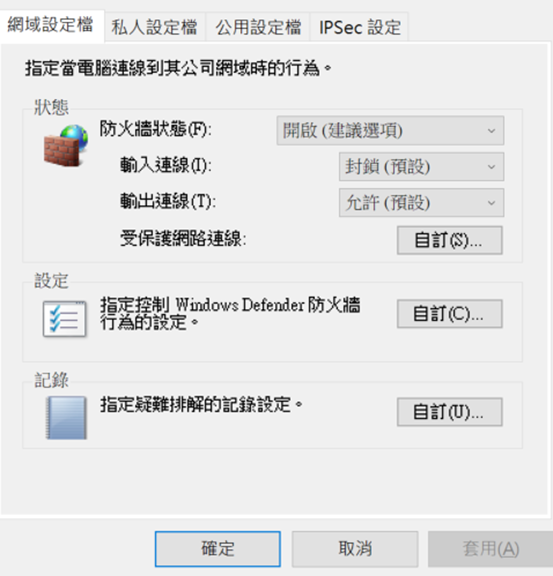
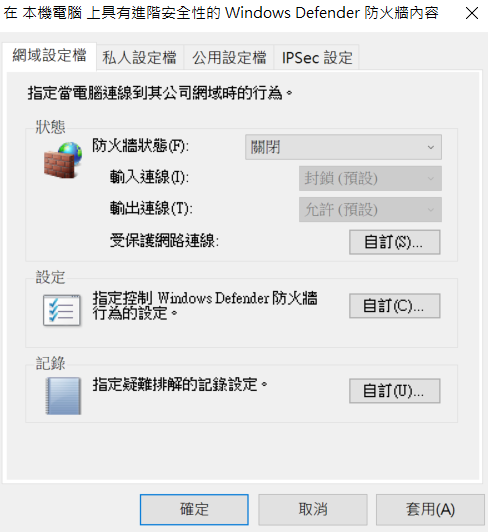
Update custom
把 custom 改好看一點點

diff --git a/custom_frc8725/style/custom.css b/custom_frc8725/style/custom.css
@@ -38,7 +38,6 @@
 	box-shadow: none;
 }
 
-
 #pageSwitcher .page #categoryButtons.buttons > button {
 	background: 
 		radial-gradient(circle at 100% -1.5vw, rgba(var(--category-color), 0.4) 3.5vw, transparent 3.5vw), 
@@ -56,6 +55,11 @@ article > .category {
 		background: linear-gradient(to right, rgb(var(--category-color)), var(--labelHovered-background));
 	}
 }
+
+#pageSwitcher .page {
+	--page-height: calc(100vh - 10vw - var(--pageSwitcher-height) - 12vw);
+}
+
 article > .cover, 
 article > .category {
 	box-shadow: none;

diff --git a/public/style/main.css b/public/style/main.css
@@ -196,7 +196,7 @@ header > * {
 #tabs {
 	--tabsAmount: 3;
 	--switchesAmount: 1;
-	--tab-height: 3vw;
+	--tab-height: 5vw;
 	--tabIcon-height: 1.5vw;
 	--tabButton-paddingY: 1vw;
 	--tabs-height: calc(100vh - 10vw - (var(--avatar-size) + var(--badge-size)/2) - 3vw - 4vw) !important;
@@ -379,7 +379,7 @@ aside[visible] {
 }
 #pageSwitcher .page li {
 	color: var(--text-color1);
-	font-size: 1.2vw;
+	font-size: 1.0vw;
 	font-weight: bold;
 	cursor: pointer;
 }

diff --git a/custom_frc8725/article/frc8725_software_edu.md b/custom_frc8725/article/frc8725_software_edu.md
@@ -1,50 +1,22 @@
-<!-- title: FRC8725 軟體培訓教學 -->
-<!-- description: 如何讓機器人動起來 -->
+<!-- title: FRC8725 軟體培訓教學 - 程式撰寫 -->
+<!-- description: 類比搖桿控制單一馬達 -->
 <!-- category: programming -->
 <!-- tags: FRC8725 -->
-<!-- published time: 2023/09/08 -->
+<!-- published time: 2023/09/10 -->
 <!-- cover: <?=customDirPath?>/image/articleCover/frc8725_software_edu_cover.jpg -->
-
-# 安裝環境
-## WPILib 安裝
-會附上 Vscode
-
-搜尋 wpilib+年分 或是前往 [WPILib Installation Guide](https://docs.wpilib.org/en/stable/docs/zero-to-robot/step-2/wpilib-setup.html) 下載符合自己作業系統的檔案
-
-完成下載後 
-1. 開啟 iso 檔
-2. 執行 `WPIlibInstaller.exe` -> `其他資訊` -> `仍要執行`
-3. 跟著 Inastaller 的指示做
-
-安裝類型選擇 `Download for this computer only(fastest)`
-
-API Docs 
-[Java](https://github.wpilib.org/allwpilib/docs/release/java/index.html) 
-[C++](https://github.wpilib.org/allwpilib/docs/release/cpp/index.html)
-
-## Frc game tools(NI) 安裝
-包含 Roborio Imaging 以及 Driver Station
-
-搜尋 FRC game tools 加年分或是前往 [FRC Game Tools Download](https://www.ni.com/zh-tw/support/downloads/drivers/download.frc-game-tools.html#479842) 選擇當年度的工具
-(若原本已經有 FRC game tools 的只需要安裝新檔即可，更新時會自動覆蓋)
-
-## 刷機用程式安裝
-[CTRE phoenix](https://store.ctr-electronics.com/software/)
-
-[REV Hardware Client](https://docs.revrobotics.com/rev-hardware-client/)
 
 # 程式撰寫
 ## 建立新專案
 1. 在安裝 WPILIB 的 Vscode 中，按下 F1 鍵，使指令區出現於上方
 2. 在指令區中輸入 `` > WPILib: Create a new project ``
 3. 填寫以下資訊
-    1. 輸入 Example (範例程式) 或 Template (只提供模板) `[Template]`
-    2. 選擇程式語言 (java或cpp) `[Java]`
-    3. 選擇專案控制方式 (Time Robot、 Command Robot等) `[Command Robot]`
+    1. 輸入 Example (範例程式) 或 Template (只提供模板) `Template`
+    2. 選擇程式語言 (java或cpp) `Java`
+    3. 選擇專案控制方式 (Time Robot、 Command Robot等) `Command Robot`
     4. 選擇存檔位置
     5. 專案名稱
-    6. 是否以資料夾方式儲存? `[勾選]`
-    7. 輸入隊號 `[8725]`
+    6. 是否以資料夾方式儲存? `勾選`
+    7. 輸入隊號 `8725`
     8. 確認第三方軟件是否全部支援 WPILib 的相關物件(由於可能有部分軟件無法支援，會造成崩潰，因此此區<span style="color: #e06c53">請勿勾選</span>)
 
 4. 確認資訊無誤後，點選 `Generate Project` 選擇 `Yes（New Window）`
@@ -205,7 +177,9 @@ public class DriveMotorSubsystem extends SubsystemBase {
 }
 ```
 
-### Talon 馬達 (Falcon)
+### TalonFX 馬達
+又或者是 Falcon 馬達
+
 1. 於 `src\main\java\frc\robot\subsystems` 創建 DriveMotorSubsystem.java 用於控制馬達
 2. 引入函式庫
 
@@ -229,8 +203,10 @@ public class DriveMotorSubsystem extends SubsystemBase {
 
     public DriveMotorSubsystem() {
         this.motor = new TalonFX(robotMap.Talon.motor);
-        this.motor.enableVoltageCompensation(true);
+        this.motor.enableVoltageCompensation(true); // 是否啟用電壓補償
         this.motor.configVoltageCompSaturation(30);
+        // 電壓輸出百分比，例：設定為12V時，若馬達輸出50%動力，將嘗試產生6V
+        
         this.motor.setInverted(false); // 是否反轉
         this.motor.setNeutralMode(NeutralMode.Brake); // kBrake 停止後鎖住馬達, kCoast 停止後保持慣性
     }
@@ -338,24 +314,32 @@ public class RobotContainer {
 
 ## 上傳程式
 1. 確定無報錯
-2. <span style="color: #ff5555">CAN 接線無誤 </span>， Roborio 連接正常
+2. **<span style="color: #ff5555">CAN 接線無誤 </span>**， Roborio 連接正常
 3. 關閉防火牆
-4. Shift + F5 上傳程式，出現 <span style="color: #6ce26c">BUILD SUCCESSFUL </span> 代表上傳完成
+4. **Shift + F5** 上傳程式，出現 <span style="color: #6ce26c">BUILD SUCCESSFUL </span> 代表上傳完成
 5. 連接搖桿進行測試
 
 
 ### 關閉防火牆
 在上傳程式碼或操控 Roborio 時才需要
 
+#### 使用 Windows 批次檔
+1. 在隨意路徑下創建一個資料夾
+2. 創建並編輯兩個bat檔，負責開和關防火牆
+開啟防火牆：`netsh advfirewall set allprofile state on`
+關閉防火牆：`netsh advfirewall set allprofile state off`
+
+![](image/articleImage/frc8725_software_edu_image6.wm.png)
+
+#### 使用 Windows Defender 防火牆內容
+
 1. 按下 windows建，尋找「具有進階安全性的 Windows 防火牆」
-2. 點擊最下方的「Windows Defender 防火牆內容」
-3. 接著會進入下圖介面，上方有三個設定檔
-「網域設定檔、私人設定檔、公用設定檔」 將三個設定檔的「防火牆狀態」調整為關閉，三區皆調整完後按下「確定」
+
+![](image/articleImage/frc8725_software_edu_image7.wm.png)
+
+2. 點擊 `Windows Defender 防火牆內容`
+3. 將「網域設定檔、私人設定檔、公用設定檔」的「防火牆狀態」調整為關閉，三區皆調整完後按下「確定」
 
 ![](image/articleImage/frc8725_software_edu_image1.wm.png)
-
-4. 當畫面顯示改變如下即設定成功
-
-![](image/articleImage/frc8725_software_edu_image2.wm.png)
 
 ⚠<span style="color: #e06c53">請注意!! 為了保護電腦的安全，務必在結束活動、使用完畢後，將防火牆設定用上述設定方式再度開啟。</span>

diff --git a/custom_frc8725/article/frc8725_enviro_edu.md b/custom_frc8725/article/frc8725_enviro_edu.md
@@ -1,0 +1,36 @@
+<!-- title: FRC8725 軟體培訓教學 - 安裝環境與刷機 -->
+<!-- description: 撰寫程式前的前置作業 -->
+<!-- category: programming -->
+<!-- tags: FRC8725 -->
+<!-- published time: 2023/09/08 -->
+<!-- cover: <?=customDirPath?>/image/articleCover/frc8725_software_edu_cover.jpg -->
+
+# 安裝環境
+## WPILib
+會附上 Vscode
+
+搜尋 wpilib+年分 或是前往 [WPILib Installation Guide](https://docs.wpilib.org/en/stable/docs/zero-to-robot/step-2/wpilib-setup.html) 下載符合自己作業系統的檔案
+
+完成下載後 
+1. 開啟 iso 檔
+2. 執行 `WPIlibInstaller.exe` -> `其他資訊` -> `仍要執行`
+3. 跟著 Inastaller 的指示做
+
+安裝類型選擇 `Download for this computer only(fastest)`
+
+API Docs 
+[Java](https://github.wpilib.org/allwpilib/docs/release/java/index.html) 
+[C++](https://github.wpilib.org/allwpilib/docs/release/cpp/index.html)
+
+## FRC game tools
+包含 Roborio Imaging 以及 Driver Station
+
+搜尋 FRC game tools 加年分或是前往 [FRC Game Tools Download](https://www.ni.com/zh-tw/support/downloads/drivers/download.frc-game-tools.html#479842) 選擇當年度的工具
+(若原本已經有 FRC game tools 的只需要安裝新檔即可，更新時會自動覆蓋)
+
+## 刷機軟體
+[CTRE Phoenix Tuner](https://store.ctr-electronics.com/software/)
+
+[CTRE Phoenix Tuner X](https://apps.microsoft.com/detail/9NVV4PWDW27Z?hl=en-US&gl=US)
+
+[REV Hardware Client](https://docs.revrobotics.com/rev-hardware-client/)

diff --git a/custom_frc8725/about.md b/custom_frc8725/about.md
@@ -254,12 +254,13 @@
 			--gapX: 2%;
 			--gapY: 10%;
 			gap: var(--gapY) var(--gapX);
-			width: calc((100% - 4*var(--mw)*3)*0.8);
-			height: calc((100% - 4*var(--mw)*2)*0.9);
-			position: absolute;
+			width: calc((100% - 4*var(--mw)*3)*1.15);
+			height: calc((100% - 4*var(--mw)*2)*1.2);
+			/* position: absolute; */
 			bottom: calc(4*var(--mw));
 			right: calc(4*var(--mw));
 			box-sizing: border-box;
+			transform: translateY(7%);
 		}
 		#aboutContent .cardBox > .card {
 			width: calc((100% - var(--gapX)*3)/4);

diff --git a/document/original_document.en.md b/document/original_document.en.md
@@ -1,4 +1,4 @@
-![threadSBT-banner](document/image/banner.png)
+![threadSBT-banner](image/banner.png)
 
 threadSBT
 =========
@@ -8,7 +8,7 @@ threadSBT
 
 > 2023 &copy; MaoHuPi
 > 
-> Document language: English / [繁體中文](document/README.zh-TW.md)
+> Document language: English / [繁體中文](original_document.zh-TW.md)
 > 
 > To use this template, please go to [original project location](https://github.com/maohupi/threadSBT) to download
 

diff --git a/document/original_document..zh-TW.md b/document/original_document..zh-TW.md
@@ -8,7 +8,7 @@ threadSBT
 
 > 2023 &copy; MaoHuPi
 > 
-> 說明文件語言：繁體中文 / [English](../README.md)
+> 說明文件語言：繁體中文 / [English](original_document.en.md)
 > 
 > 若要使用此模板，請前往[原專案位置](https://github.com/maohupi/threadSBT)下載
 
